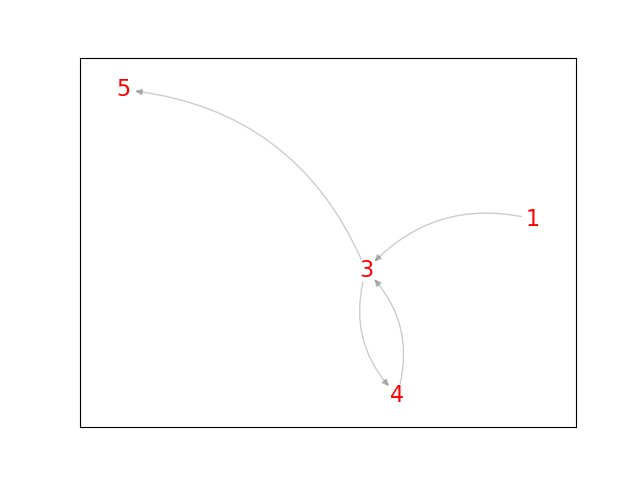
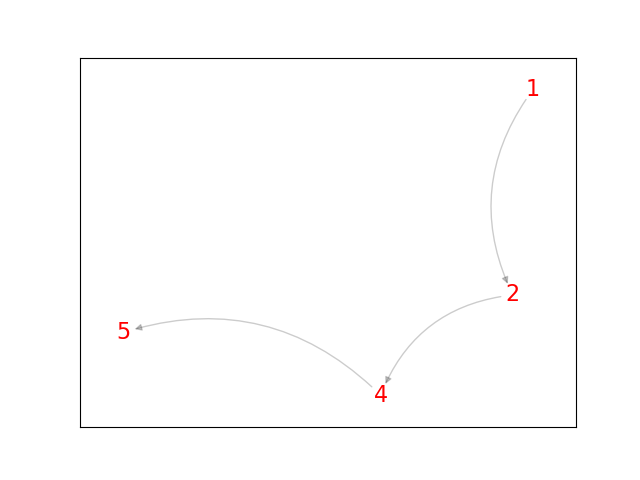
fix extra path

diff --git a/main.py b/main.py
@@ -58,8 +58,14 @@ def draw_way(graph,path):
     nx.draw_networkx_labels(G,pos,nodes,font_size=16,font_color='r')
     plt.savefig("output/Graph.png", format="PNG")
     plt.show()
+def replace_extra_path(path):
+    for item in range(10):
+        x = str(item)
+        path = path.replace(x+x,x)
+    return path
 
 def full_path(path,dijsktra_path):
+    path = replace_extra_path(path)
     fullpath = ''
     for i in range(len(path)-1):
         tmp = dijsktra_path[path[i]][path[i+1]]
